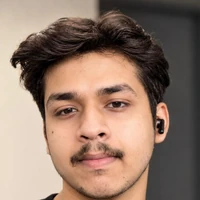
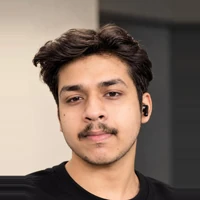
Zoom out portrait and show color on hover

diff --git a/assets/css/site.css b/assets/css/site.css
@@ -214,6 +214,10 @@ html[data-theme="dark"] .tool .moon { display: none; }
   width: 116px; height: 116px; object-fit: cover;
   filter: grayscale(1) contrast(1.08);
   border: 1px solid var(--line-2);
+  transition: filter 0.35s var(--ease);
+}
+.portrait:hover img {
+  filter: grayscale(0) contrast(1);
 }
 .portrait::after {
   content: ""; position: absolute; right: -7px; bottom: -7px; width: 22px; height: 22px;
